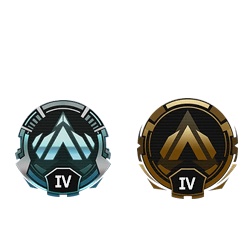
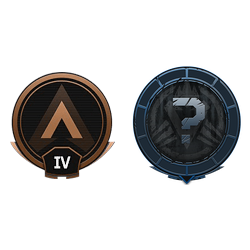
picture optimization
Added rezising of pictures and new download method

diff --git a/main.py b/main.py
@@ -28,6 +28,9 @@ APEX_TOKEN_FILE.close()
 # create bot with a command prefix
 client = commands.Bot(command_prefix="!")
 
+# create width and height for ranked image
+W, H = 250, 250
+
 # on ready event for start of bot
 @client.event
 async def on_ready():
@@ -178,52 +181,56 @@ async def rank(ctx, arg):
         print('Error during request to API, message from API: ' + str(RequestDataResponse))
 
     else:
-        W, H = 250, 250
-        img = Image.new("RGBA", (W, H))
+        # download BR rank image and store it
+        RankImgRequest = requests.get(RequestDataResponse['global']['rank']['rankImg'], allow_redirects=True, stream=True)
+        with open('src/rank/' + RequestDataResponse['global']['rank']['rankName'] + str(RequestDataResponse['global']['rank']['rankDiv']) + '.png','wb') as f:
+            shutil.copyfileobj(RankImgRequest.raw, f)
+
+        # download AR rank image and store it
+        RankImgRequest = requests.get(RequestDataResponse['global']['arena']['rankImg'], allow_redirects=True, stream=True)
+        with open('src/rank/' + RequestDataResponse['global']['arena']['rankName'] + str(RequestDataResponse['global']['arena']['rankDiv']) + '.png','wb') as f:
+            shutil.copyfileobj(RankImgRequest.raw, f)
+
+        # create new image to edit
+        img = Image.new('RGBA', (W, H))
         img1draw = ImageDraw.Draw(img)
 
+        # write player name text
         w, h = img1draw.textsize(RequestDataResponse['global']['name'], font=DisiFont25)
         img1draw.text(((W - w) / 2, 0), RequestDataResponse['global']['name'], fill="white", font=DisiFont25)
 
-        w1, h1 = img1draw.textsize("BR Rank", font=DisiFont20)
-        img1draw.text((((W / 2) - w1) / 2, h + 20), "BR Rank", fill="white", font=DisiFont20)
+        # write BR Rank text
+        w1, h1 = img1draw.textsize('BR Rank', font=DisiFont20)
+        img1draw.text((((W / 2) - w1) / 2, h + 10), 'BR Rank', fill='white', font=DisiFont20)
 
-        filename = "rank.png"
-        r = requests.get(RequestDataResponse['global']['rank']['rankImg'], stream = True)
-        if r.status_code == 200:
-            # Set decode_content value to True, otherwise the downloaded image file's size will be zero.
-            r.raw.decode_content = True
-            
-            # Open a local file with wb ( write binary ) permission.
-            with open(filename,'wb') as f:
-                shutil.copyfileobj(r.raw, f)
-                
-        imgrank = Image.open(filename)
-        img.paste(imgrank, (int(((W / 2) - 120) / 2), h + h1 + 40))
+        # write AR Rank text
+        w1, h1 = img1draw.textsize('AR Rank', font=DisiFont20)
+        img1draw.text(((((W / 2) - w1) / 2) + (W / 2), h + 10), 'AR Rank', fill='white', font=DisiFont20)
+        
+        # draw BR Rank symbol
+        imgrank = Image.open('src/rank/' + RequestDataResponse['global']['rank']['rankName'] + str(RequestDataResponse['global']['rank']['rankDiv']) + '.png')
+        imgrank = imgrank.resize((120, 120), Image.ADAPTIVE)
+        area = (int(((W / 2) - 120) / 2), h + h1 + 20, int(((W / 2) - 120) / 2) + 120, h + h1 + 140)
+        img.paste(imgrank, area)
+        imgrank.close()
 
-        w1, h1 = img1draw.textsize("Arena Rank", font=DisiFont20)
-        img1draw.text(((((W / 2) - w1) / 2) + (W / 2), h + 20), "Arena Rank", fill="white", font=DisiFont20)
+        # draw AR Rank symbol
+        imgrank = Image.open('src/rank/' + RequestDataResponse['global']['arena']['rankName'] + str(RequestDataResponse['global']['arena']['rankDiv']) + '.png')
+        imgrank = imgrank.resize((120, 120), Image.ADAPTIVE)
+        area = (int(((W / 2) - 120) / 2 + (W / 2)), h + h1 + 20, int(((W / 2) - 120) / 2 + (W / 2)) + 120, h + h1 + 140)
+        img.paste(imgrank, area)
+        imgrank.close()
 
-        r = requests.get(RequestDataResponse['global']['arena']['rankImg'], stream = True)
-        if r.status_code == 200:
-            # Set decode_content value to True, otherwise the downloaded image file's size will be zero.
-            r.raw.decode_content = True
-            
-            # Open a local file with wb ( write binary ) permission.
-            with open(filename,'wb') as f:
-                shutil.copyfileobj(r.raw, f)
-                
-        imgrank = Image.open(filename)
-        img.paste(imgrank, (int(((W / 2) - 120) / 2 + (W / 2)), h + h1 + 40))
+        # write BR Rank value
+        w1, h1 = img1draw.textsize(str(RequestDataResponse['global']['rank']['rankScore']) + 'RP', font=DisiFont20)
+        img1draw.text((((W / 2) - w1) / 2, h + h1 + 150), str(RequestDataResponse['global']['rank']['rankScore']) + 'RP', fill='white', font=DisiFont20)
 
-        w, h = img1draw.textsize(str(RequestDataResponse['global']['rank']['rankScore']) + 'RP', font=DisiFont20)
-        img1draw.text((((W / 2) - w) / 2, (H - h) - 20), str(RequestDataResponse['global']['rank']['rankScore']) + 'RP', fill="white", font=DisiFont20)
-
-        w, h = img1draw.textsize(str(RequestDataResponse['global']['arena']['rankScore']) + 'AP', font=DisiFont20)
-        img1draw.text(((((W / 2) - w) / 2) + (W / 2), (H - h) - 20), str(RequestDataResponse['global']['arena']['rankScore']) + 'AP', fill="white", font=DisiFont20)
-
+        # write AR Rank value
+        w1, h1 = img1draw.textsize(str(RequestDataResponse['global']['arena']['rankScore']) + 'AP', font=DisiFont20)
+        img1draw.text(((((W / 2) - w1) / 2) + (W / 2), h + h1 + 150), str(RequestDataResponse['global']['arena']['rankScore']) + 'AP', fill='white', font=DisiFont20)
         img.save('output.png')
 
+        # send picture to channel
         await ctx.channel.send(file=discord.File('output.png'))
 
 # run the client
